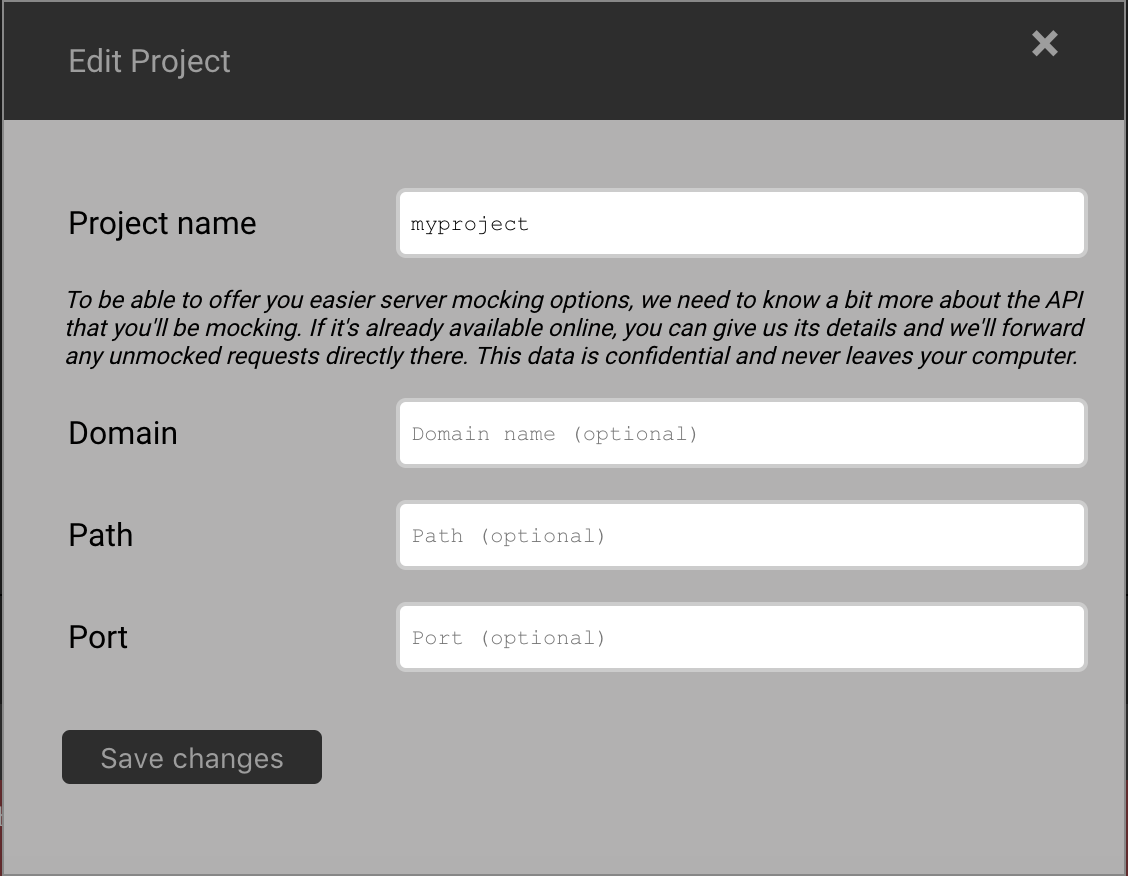
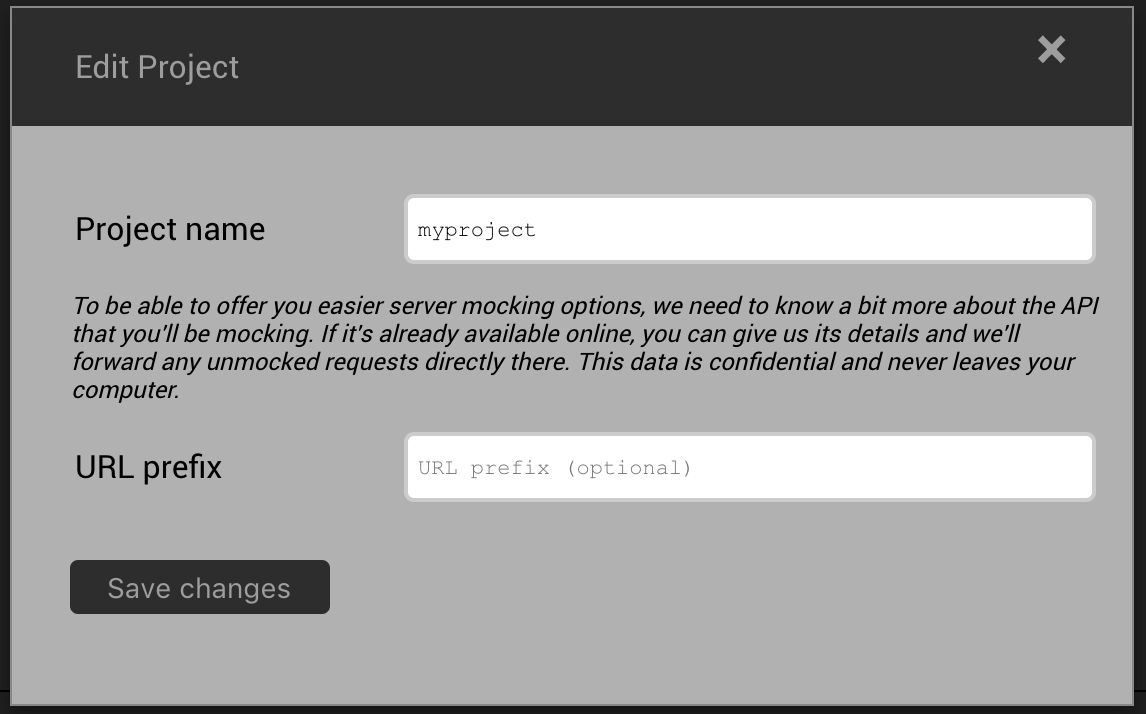
Update API forwarding and first project pages

diff --git a/basics/api-forwarding.md b/basics/api-forwarding.md
@@ -21,12 +21,11 @@ Let's create our project to mock that service API. Create a new project called *
 
 ![API Forwarding Exampre Project](../Images/api_forwarding_example_project.png 'API Forwarding Exampre Project')
 
-During the set up process you must add the information about the real API service, in this case you can set:
+During the set up process you must add the information about the real API service and you can specify the **URL prefix** in a simple string format: `restcountries.eu/rest/v2/`. The prefix is made up of 3 main components:
 
-- _Domain_ : restcountries.eu
-- _Path_ : /rest/v2/
-
-You can leave empty the **port** field becasue there is not any information about it. The **path** is set to `/rest/v2/` because all the endpoints have this path in their URLs.
+- _Domain_ : `restcountries.eu`
+- _Path_ : the path is set to `/rest/v2/` because all the endpoints have this path in their URLs
+- _Port_ : the port is not defined in our case becasue there is not any information about it
 
 Clicking on **Add Project** your _countries_ project is ready and it is running.
 
@@ -64,7 +63,7 @@ After clicking on **Mock** button you can see the new `all` endpoint in the endp
 
 ## Conclusions
 
-**API Forwarding** feature allows Mimic to forward requests to real API services when the current project hasn't the requested endpoint and all the information of the real API service (domain, path and port) are set in the project details.
+**API Forwarding** feature allows Mimic to forward requests to real API services when the current project hasn't the requested endpoint and all the information of the real API service (URL prefix) are set in the project details.
 
 In addition when a request is forwarded, the **Mock Button** allow the user mock the endpoint with a single click.
 

diff --git a/basics/create-first-project.md b/basics/create-first-project.md
@@ -17,11 +17,7 @@ You will see the details Project popup:
 
 ![Create new Project](../Images/projectdetails.png 'Create new Project')
 
-here you can set the **name** of your project and you can add some optional informations about your API service:
-
-- **Domain**
-- **Path**
-- **Port**
+here you can set the **name** of your project and the **URL prefix** for your API service.
 
 This data will be used to forward any unmocked requests directly to your API service. _This data is confidential and never leaves your computer_.
 
